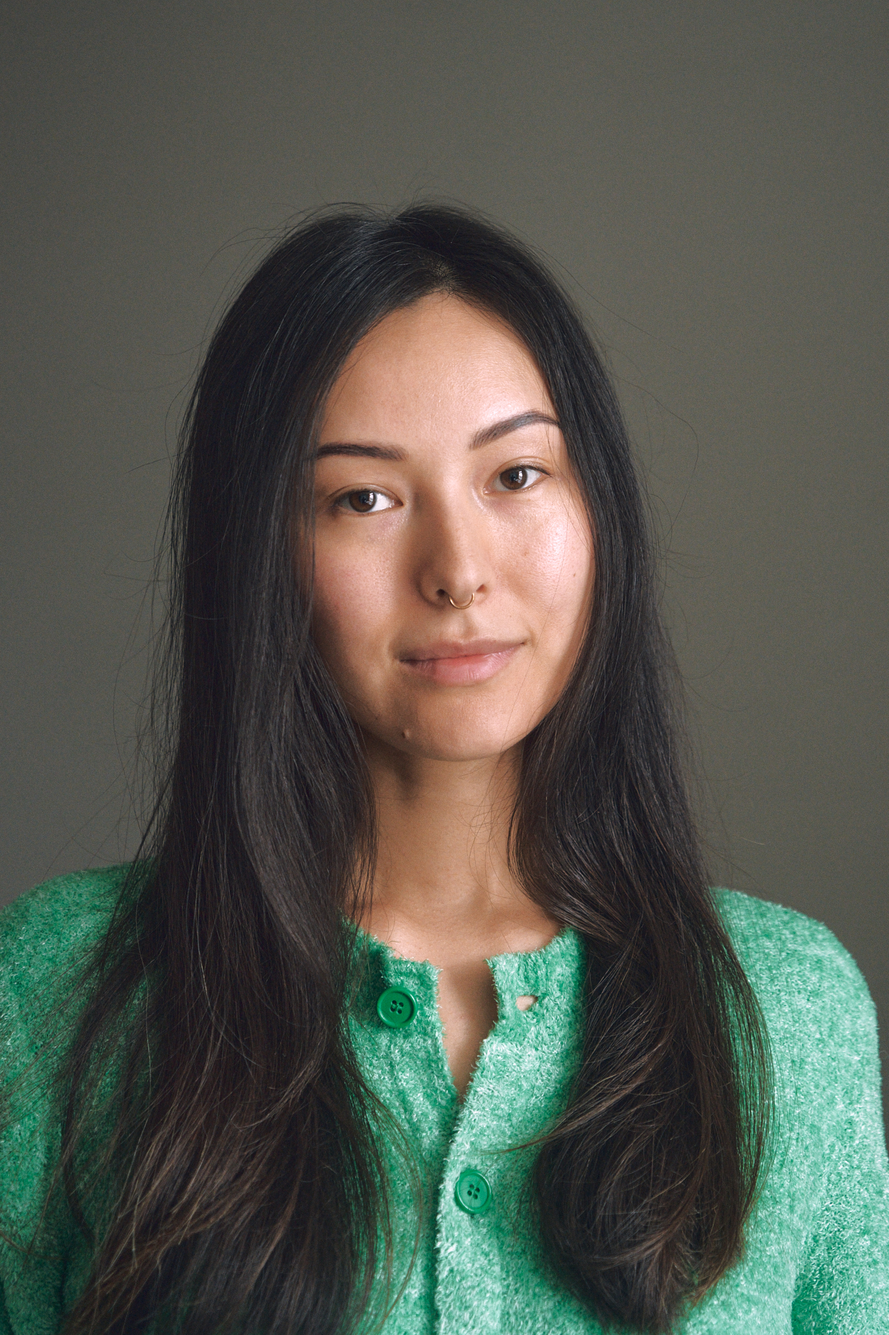
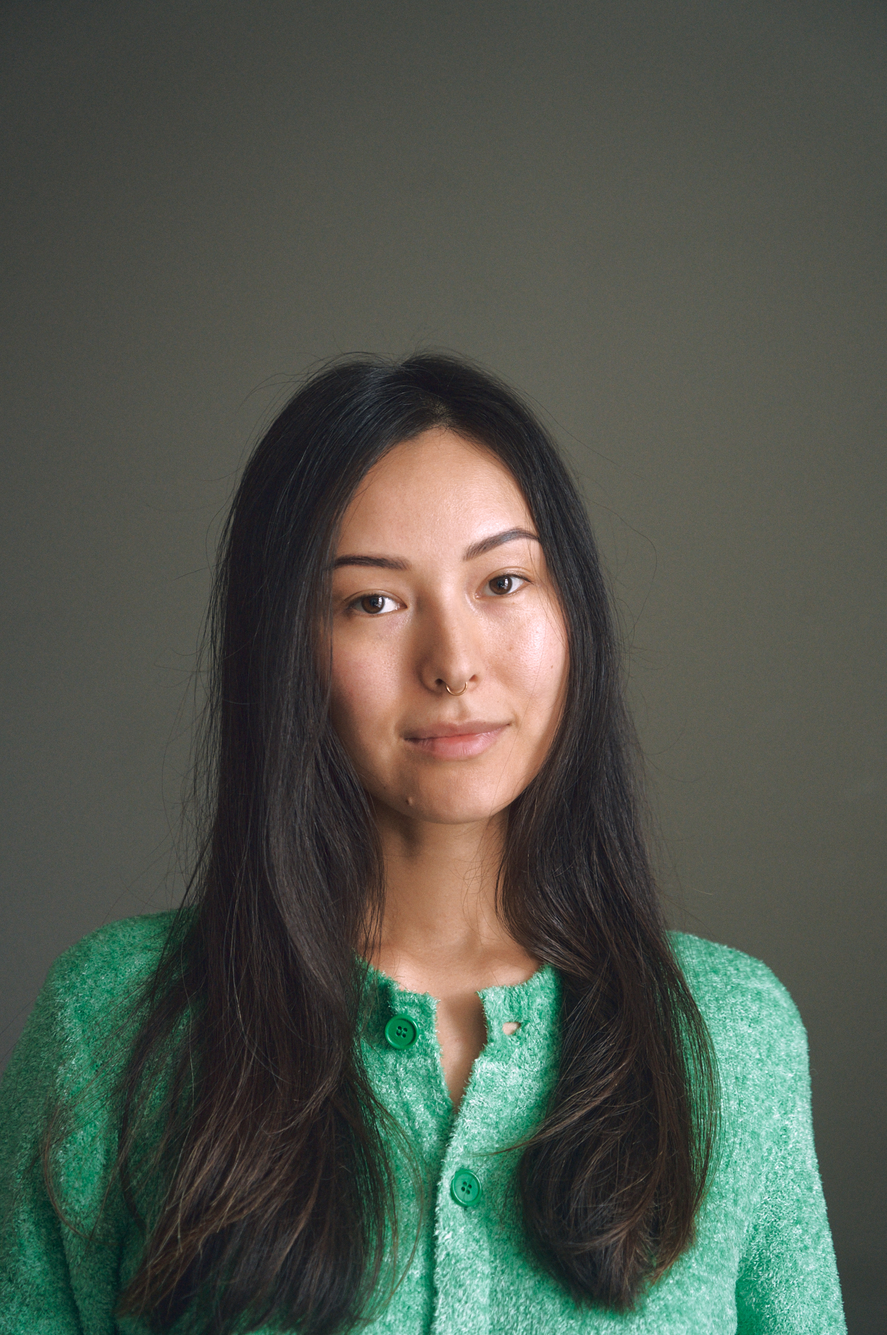
upd image size

diff --git a/styles.css b/styles.css
@@ -191,8 +191,8 @@ a:hover {
 /* Hero — split: left photo, right bright panel */
 .hero {
   display: grid;
-  grid-template-columns: 0.9fr 1.1fr;
-  max-height: 75vh;
+  grid-template-columns: 0.8fr 1.2fr;
+  height: calc(100vh - var(--header-h));
   background: var(--bg);
 }
 
@@ -204,6 +204,7 @@ a:hover {
   width: 100%;
   height: 100%;
   object-fit: cover;
+  object-position: center 56%;
   display: block;
 }
 
